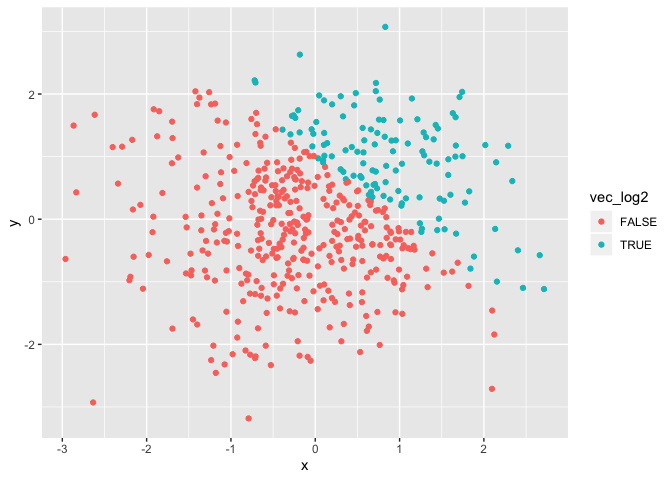
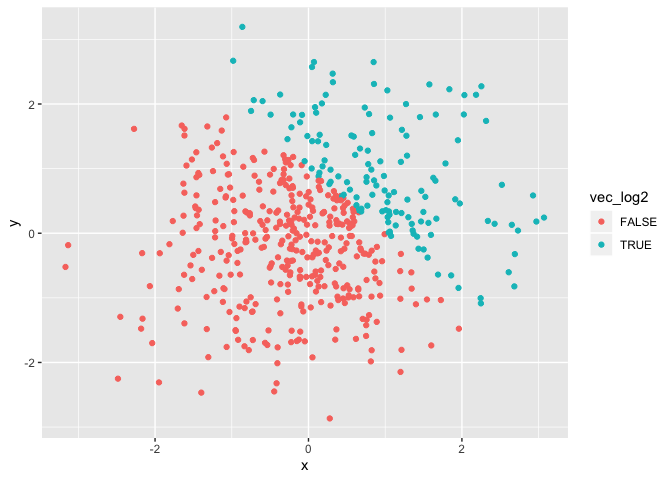
Exporting the first scatterplot to my project as pdf.

diff --git a/p8105_hw1_Ec3342.md b/p8105_hw1_Ec3342.md
@@ -40,13 +40,13 @@ first_df = tibble(
 mean(pull(first_df,norm_samp)) 
 ```
 
-    ## [1] -0.6659844
+    ## [1] 0.540264
 
 ``` r
 mean(pull(first_df,vec_log))
 ```
 
-    ## [1] 0.375
+    ## [1] 0.75
 
 ``` r
 mean(pull(first_df,vec_char))
@@ -73,7 +73,7 @@ taking the mean of the character vector (vec\_char) and the factor
 vector (vec\_factor), I got an error saying the argument is not numeric
 or logical:returning N/A.
 
-\#Now writing a code chunk to apply the **as.numeric** function to the
+\#Now writing the code to apply the **as.numeric** function to the
 logical, character, and factor variables. Hiding the output by giving
 **eval = FALSE** in the code chunk. After applying the as.numeric
 function, the logical vector, character vector and the factor vector
@@ -112,8 +112,8 @@ vector into numeric and then multiplied that with the random
 as.numeric(pull(first_df,vec_log))*(pull(first_df,norm_samp))
 ```
 
-    ## [1] 0.0000000 1.1323952 0.6018982 0.0000000 0.0000000 0.0000000 0.0000000
-    ## [8] 0.1037951
+    ## [1] 2.6827229 0.1973766 0.3746485 0.1131865 0.0000000 0.3654065 1.8807046
+    ## [8] 0.0000000
 
 ``` r
 as.factor(pull(first_df,vec_log))*(pull(first_df,norm_samp))
@@ -128,8 +128,8 @@ as.factor(pull(first_df,vec_log))*(pull(first_df,norm_samp))
 as.numeric(as.factor(pull(first_df,vec_log)))*(pull(first_df,norm_samp))
 ```
 
-    ## [1] -1.1570554  2.2647904  1.2037963 -0.8764147 -0.9126485 -1.4690353
-    ## [7] -2.7508098  0.2075903
+    ## [1]  5.3654458  0.3947532  0.7492971  0.2263731 -0.3859909  0.7308130
+    ## [7]  3.7614092 -0.9059425
 
 # Question 2
 
@@ -157,37 +157,46 @@ vec_fac = as.factor(vec_log2)
 ## Description of the dataframe
 
   - The size of the dataframe is 500 and the number of columns are 5
-  - The mean of x is -0.0092352
-  - The median of x is -0.083356
-  - The standard deviation of x is 0.9957998
-  - The proportion of cases for which x + y \> 1 is 0.242
+  - The mean of x is 0.0456839
+  - The median of x is 0.0437335
+  - The standard deviation of x is 1.0229124
+  - The proportion of cases for which x + y \> 1 is 0.268
 
 ## Scatterplot
 
-\#Creating a scatterplot (plot\_1) of y vs x that color points using the
-logical variable, a second scatterplot (plot\_2) that color points using
-the numeric variables, and a third scatterplot that color plots using
-the factor variables.Exporting the first scatterplot (plot\_1) to my
-project directory using
-ggsave.
+\#Creating a scatterplot of y vs x that color points using the logical
+variable, a second scatterplot that color points using the numeric
+variables, and a third scatterplot that color plots using the factor
+variables.
 
 ``` r
-plot_1 = ggplot(second_df, aes(x = x, y = y, color = vec_log2)) + geom_point() 
-plot_1
+ggplot(second_df, aes(x = x, y = y, color = vec_log2)) + geom_point() 
 ```
 
 ![](p8105_hw1_Ec3342_files/figure-gfm/scatterplot-1.png)<!-- -->
 
 ``` r
-plot_2 = ggplot(second_df, aes(x = x, y = y, color = vec_num)) + geom_point() 
-plot_2
+ggplot(second_df, aes(x = x, y = y, color = vec_num)) + geom_point() 
 ```
 
 ![](p8105_hw1_Ec3342_files/figure-gfm/scatterplot-2.png)<!-- -->
 
 ``` r
-plot_3 = ggplot(second_df, aes(x = x, y = y, color = vec_fac)) + geom_point() 
-plot_3
+ggplot(second_df, aes(x = x, y = y, color = vec_fac)) + geom_point() 
 ```
 
-![](p8105_hw1_Ec3342_files/figure-gfm/scatterplot-3.png)<!-- -->
+![](p8105_hw1_Ec3342_files/figure-gfm/scatterplot-3.png)<!-- --> \# The
+first scatterplot that color points using the logical variable has two
+colors: Red represents False and Turquiose represents True. The second
+scatterplot that color points using the numeric variable has two colors:
+Light blue represents larger numbers and dark blue represents smaller
+numbers. The third scatterplot that color points using the factor
+variable has two colors: Red represents False and Turquiose represents
+True.
+
+\#Exporting the first scatterplot to my project
+directory.
+
+``` r
+ggsave("First_plot.pdf",height = 6, width = 8, plot = ggplot(second_df, aes(x = x, y = y, color = vec_log2)) + geom_point())
+```
